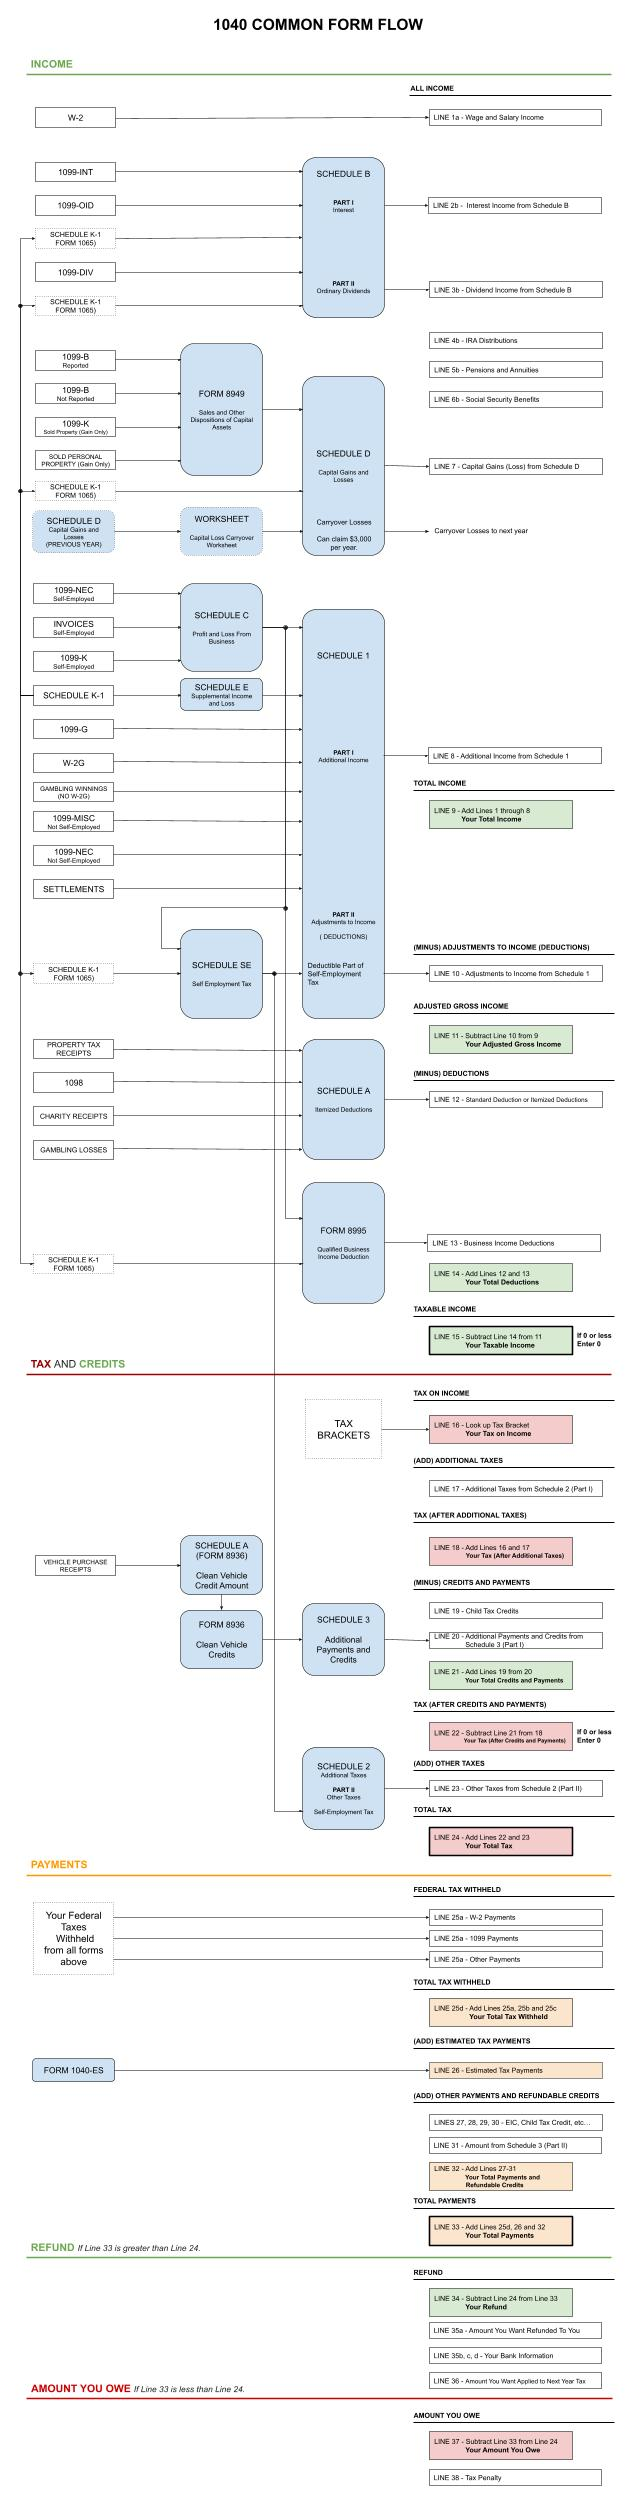
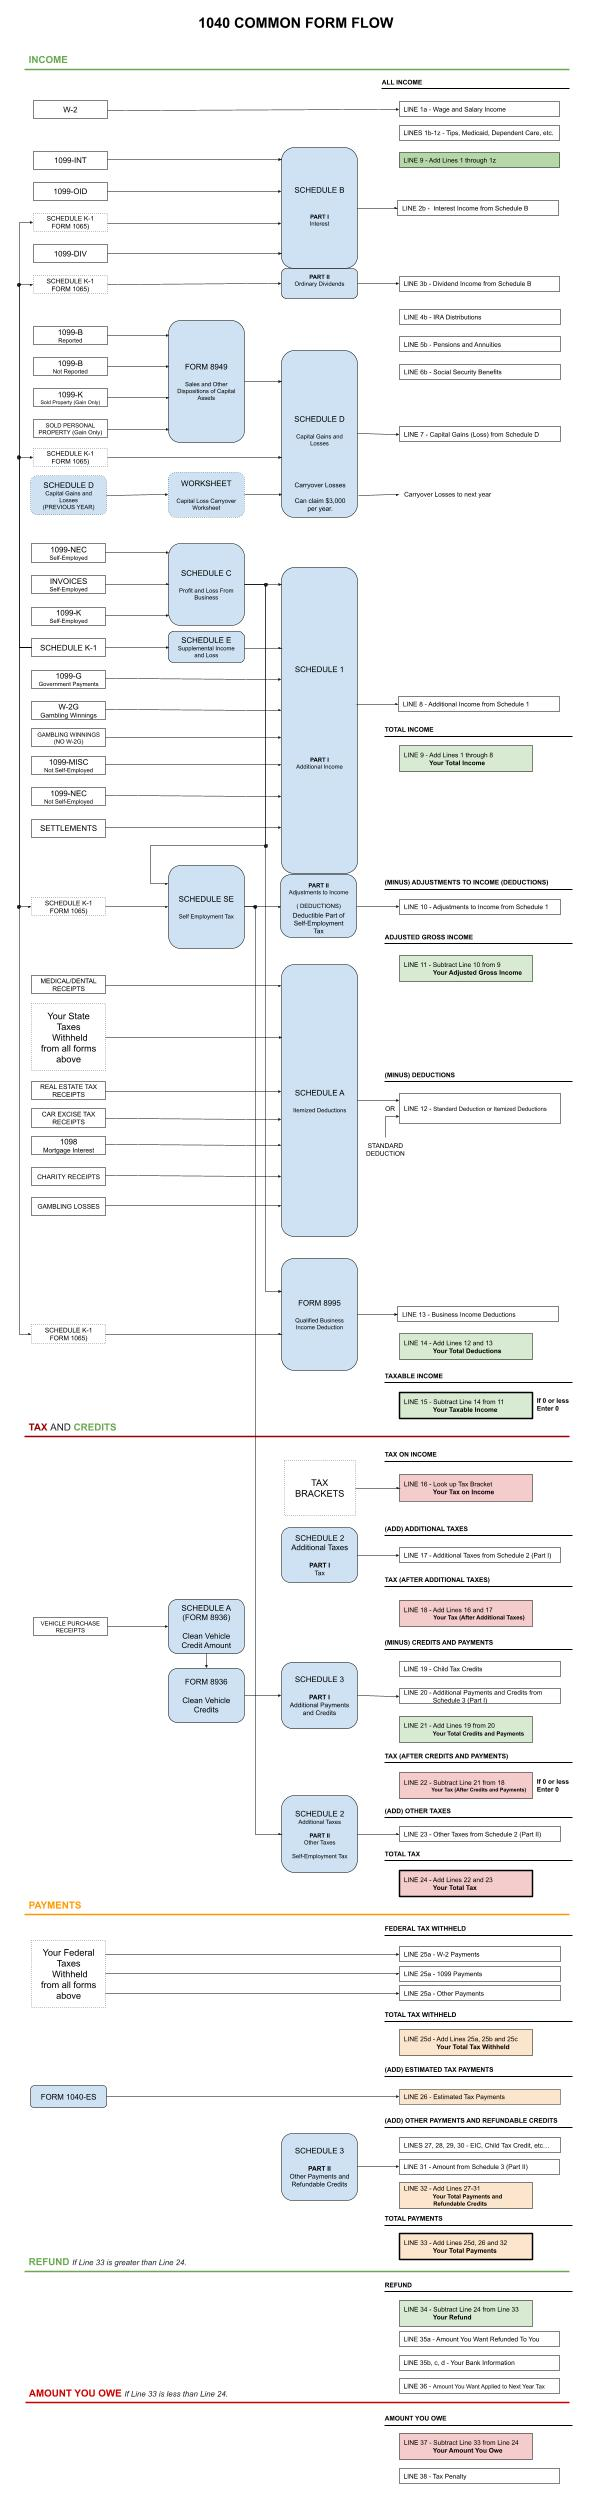
update taxes

diff --git a/other/random-things/taxes-cheat-sheet/README.md b/other/random-things/taxes-cheat-sheet/README.md
@@ -313,8 +313,86 @@ _U.S. Individual Income Tax Return._
 #### (MINUS) DEDUCTIONS
 
 * LINE 12 - Standard Deduction or Itemized Deductions from Schedule A
-  * PROPERTY TAXES
-    * **PROPERTY TAX RECEIPTS**
+  * MEDICAL/DENTAL COSTS
+    * **MEDICAL/DENTAL RECEIPTS**
+      ->
+      **[SCHEDULE A](https://github.com/JeffDeCola/my-cheat-sheets/tree/master/other/random-things/taxes-cheat-sheet#schedule-a---itemized-deductions) LINE 1**
+      ->
+      **LINE 17**
+  * STATE AND LOCAL TAXES
+    * **W-2 BOX 17**
+      ->
+      **[SCHEDULE A](https://github.com/JeffDeCola/my-cheat-sheets/tree/master/other/random-things/taxes-cheat-sheet#schedule-a---itemized-deductions) LINE 5a**
+      ->
+      **LINE 17**
+    * **1099-INT BOX 17**
+      ->
+      **[SCHEDULE A](https://github.com/JeffDeCola/my-cheat-sheets/tree/master/other/random-things/taxes-cheat-sheet#schedule-a---itemized-deductions) LINE 5a**
+      ->
+      **LINE 17**
+    * **1099-OID BOX 14**
+      ->
+      **[SCHEDULE A](https://github.com/JeffDeCola/my-cheat-sheets/tree/master/other/random-things/taxes-cheat-sheet#schedule-a---itemized-deductions) LINE 5a**
+      ->
+      **LINE 17**
+    * **1099-DIV BOX 16**
+      ->
+      **[SCHEDULE A](https://github.com/JeffDeCola/my-cheat-sheets/tree/master/other/random-things/taxes-cheat-sheet#schedule-a---itemized-deductions) LINE 5a**
+      ->
+      **LINE 17**
+    * **1099-B BOX 16** (Reported)
+      ->
+      **[SCHEDULE A](https://github.com/JeffDeCola/my-cheat-sheets/tree/master/other/random-things/taxes-cheat-sheet#schedule-a---itemized-deductions) LINE 5a**
+      ->
+      **LINE 17**
+    * **1099-B BOX 16** (Not Reported)
+      ->
+      **[SCHEDULE A](https://github.com/JeffDeCola/my-cheat-sheets/tree/master/other/random-things/taxes-cheat-sheet#schedule-a---itemized-deductions) LINE 5a**
+      ->
+      **LINE 17**
+    * **1099-K BOX 8** (Sold Property)
+      ->
+      **[SCHEDULE A](https://github.com/JeffDeCola/my-cheat-sheets/tree/master/other/random-things/taxes-cheat-sheet#schedule-a---itemized-deductions) LINE 5a**
+      ->
+      **LINE 17**
+    * **1099-NEC BOX 5** (Self-Employed)
+      ->
+      **[SCHEDULE A](https://github.com/JeffDeCola/my-cheat-sheets/tree/master/other/random-things/taxes-cheat-sheet#schedule-a---itemized-deductions) LINE 5a**
+      ->
+      **LINE 17**
+    * **1099-K BOX 8** (Self-Employed)
+      ->
+      **[SCHEDULE A](https://github.com/JeffDeCola/my-cheat-sheets/tree/master/other/random-things/taxes-cheat-sheet#schedule-a---itemized-deductions) LINE 5a**
+      ->
+      **LINE 17**
+    * **1099-G BOX 11**
+      ->
+      **[SCHEDULE A](https://github.com/JeffDeCola/my-cheat-sheets/tree/master/other/random-things/taxes-cheat-sheet#schedule-a---itemized-deductions) LINE 5a**
+      ->
+      **LINE 17**
+    * **W-2G BOX 15**
+      ->
+      **[SCHEDULE A](https://github.com/JeffDeCola/my-cheat-sheets/tree/master/other/random-things/taxes-cheat-sheet#schedule-a---itemized-deductions) LINE 5a**
+      ->
+      **LINE 17**
+    * **1099-MISC BOX 16** (Not Self-Employed)
+      ->
+      **[SCHEDULE A](https://github.com/JeffDeCola/my-cheat-sheets/tree/master/other/random-things/taxes-cheat-sheet#schedule-a---itemized-deductions) LINE 5a**
+      ->
+      **LINE 17**
+    * **1099-NEC BOX 5** (Not Self-Employed)
+      ->
+      **[SCHEDULE A](https://github.com/JeffDeCola/my-cheat-sheets/tree/master/other/random-things/taxes-cheat-sheet#schedule-a---itemized-deductions) LINE 5a**
+      ->
+      **LINE 17**
+  * REAL ESTATE TAXES
+    * **REAL ESTATE TAX RECEIPTS**
+      ->
+      **[SCHEDULE A](https://github.com/JeffDeCola/my-cheat-sheets/tree/master/other/random-things/taxes-cheat-sheet#schedule-a---itemized-deductions) LINE 5b**
+      ->
+      **LINE 17**
+  * CAR EXCISE TAX
+    * **CAR EXCISE TAX RECEIPTS**
       ->
       **[SCHEDULE A](https://github.com/JeffDeCola/my-cheat-sheets/tree/master/other/random-things/taxes-cheat-sheet#schedule-a---itemized-deductions) LINE 5c**
       ->
@@ -547,6 +625,14 @@ _In order used on form 1040._
     **BOX 2**
     ->
     **1040 LINE 25a**
+  * State Tax Withheld:
+    **BOX 17**
+    ->
+    **[SCHEUDLE A](https://github.com/JeffDeCola/my-cheat-sheets/tree/master/other/random-things/taxes-cheat-sheet#schedule-a---itemized-deductions) LINE 5a**
+    ->
+    **LINE 17**
+    ->
+    **1040 LINE 12**
 * **1099-INT** - Interest Income
   * Interest Income:
     **BOX 1**
@@ -560,6 +646,14 @@ _In order used on form 1040._
     **BOX 4**
     ->
     **1040 LINE 25b**
+  * State Tax Withheld:
+    **BOX 17**
+    ->
+    **[SCHEUDLE A](https://github.com/JeffDeCola/my-cheat-sheets/tree/master/other/random-things/taxes-cheat-sheet#schedule-a---itemized-deductions) LINE 5a**
+    ->
+    **LINE 17**
+    ->
+    **1040 LINE 12**
 * **1099-OID** - Original Issue Discount
   * Interest Income:
     **BOX 1**
@@ -573,6 +667,14 @@ _In order used on form 1040._
     **BOX 4**
     ->
     **1040 LINE 25b**
+  * State Tax Withheld:
+    **BOX 14**
+    ->
+    **[SCHEUDLE A](https://github.com/JeffDeCola/my-cheat-sheets/tree/master/other/random-things/taxes-cheat-sheet#schedule-a---itemized-deductions) LINE 5a**
+    ->
+    **LINE 17**
+    ->
+    **1040 LINE 12**
 * **1099-DIV** - Dividends and Distributions
   * Dividend Income:
     **BOX 1a**
@@ -586,6 +688,14 @@ _In order used on form 1040._
     **BOX 4**
     ->
     **1040 LINE 25b**
+  * State Tax Withheld:
+    **BOX 16**
+    ->
+    **[SCHEUDLE A](https://github.com/JeffDeCola/my-cheat-sheets/tree/master/other/random-things/taxes-cheat-sheet#schedule-a---itemized-deductions) LINE 5a**
+    ->
+    **LINE 17**
+    ->
+    **1040 LINE 12**
 * **1099-B** - Proceeds From Broker and Barter Exchange Transactions (Reported)
   * Short-Term Capitol Gains (Loss) (BOX A):
     **VARIOUS BOXES**
@@ -611,9 +721,18 @@ _In order used on form 1040._
     **LINE 16**
     ->
     **1040 LINE 7**
-  * **BOX 4**
+  * Federal Tax Withheld:
+    **BOX 4**
     ->
     **1040 LINE 25b**
+  * State Tax Withheld:
+    **BOX 16**
+    ->
+    **[SCHEUDLE A](https://github.com/JeffDeCola/my-cheat-sheets/tree/master/other/random-things/taxes-cheat-sheet#schedule-a---itemized-deductions) LINE 5a**
+    ->
+    **LINE 17**
+    ->
+    **1040 LINE 12**
 * **1099-B** - Proceeds From Broker and Barter Exchange Transactions (Not Reported)
   * Short-Term Capitol Gains (Loss) (BOX B):
     **VARIOUS BOXES**
@@ -639,9 +758,18 @@ _In order used on form 1040._
     **LINE 16**
     ->
     **1040 LINE 7**
-  * **BOX 4**
+  * Federal Tax Withheld:
+    **BOX 4**
     ->
     **1040 LINE 25b**
+  * State Tax Withheld:
+    **BOX 16**
+    ->
+    **[SCHEUDLE A](https://github.com/JeffDeCola/my-cheat-sheets/tree/master/other/random-things/taxes-cheat-sheet#schedule-a---itemized-deductions) LINE 5a**
+    ->
+    **LINE 17**
+    ->
+    **1040 LINE 12**
 * **1099-K** - Payment Card and Third Party Network Transactions (Not a 1099-B) (Sold Property (Gain only))
   * Short-Term Capitol Gains (Loss) (BOX C):
     **VARIOUS BOXES**
@@ -671,6 +799,14 @@ _In order used on form 1040._
     **BOX 4**
     ->
     **1040 LINE 25b**
+  * State Tax Withheld:
+    **BOX 8**
+    ->
+    **[SCHEUDLE A](https://github.com/JeffDeCola/my-cheat-sheets/tree/master/other/random-things/taxes-cheat-sheet#schedule-a---itemized-deductions) LINE 5a**
+    ->
+    **LINE 17**
+    ->
+    **1040 LINE 12**
 * **SOLD PERSONAL PROPERTY** - Bill of Sale (e.g. Sold a car at a profit) (Gain only) (Not a 1099-B)
   * Short-Term Capitol Gains (Loss) (BOX C):
     **TOTAL AMOUNT & INFO**
@@ -782,6 +918,14 @@ _In order used on form 1040._
     **BOX 4**
     ->
     **1040 LINE 25b**
+  * State Tax Withheld:
+    **BOX 5**
+    ->
+    **[SCHEUDLE A](https://github.com/JeffDeCola/my-cheat-sheets/tree/master/other/random-things/taxes-cheat-sheet#schedule-a---itemized-deductions) LINE 5a**
+    ->
+    **LINE 17**
+    ->
+    **1040 LINE 12**
 * **INVOICES** - From your Business (Self-Employed)
   * Additional Income (Business Income (Loss)):
     **TOTAL AMOUNT**
@@ -900,6 +1044,14 @@ _In order used on form 1040._
     **BOX 4**
     ->
     **1040 LINE 25b**
+  * State Tax Withheld:
+    **BOX 8**
+    ->
+    **[SCHEUDLE A](https://github.com/JeffDeCola/my-cheat-sheets/tree/master/other/random-things/taxes-cheat-sheet#schedule-a---itemized-deductions) LINE 5a**
+    ->
+    **LINE 17**
+    ->
+    **1040 LINE 12**
 * **SCHEDULE K-1 (FORM 1065)** - Partner's Share of Income, Deductions, Credits, etc.
   * Interest Income:
     **BOX 5**
@@ -994,6 +1146,14 @@ _In order used on form 1040._
     **BOX 4**
     ->
     **1040 LINE 25b**
+  * State Tax Withheld:
+    **BOX 11**
+    ->
+    **[SCHEUDLE A](https://github.com/JeffDeCola/my-cheat-sheets/tree/master/other/random-things/taxes-cheat-sheet#schedule-a---itemized-deductions) LINE 5a**
+    ->
+    **LINE 17**
+    ->
+    **1040 LINE 12**
 * **W-2G** - Certain Gambling Winnings
   * Additional Income (Gambling Winnings):
     **BOX 1**
@@ -1006,7 +1166,15 @@ _In order used on form 1040._
   * Federal Tax Withheld:
     **BOX 4**
     ->
-    **1040 LINE 25c**
+    **1040 LINE 25b**
+  * State Tax Withheld:
+    **BOX 15**
+    ->
+    **[SCHEUDLE A](https://github.com/JeffDeCola/my-cheat-sheets/tree/master/other/random-things/taxes-cheat-sheet#schedule-a---itemized-deductions) LINE 5a**
+    ->
+    **LINE 17**
+    ->
+    **1040 LINE 12**
 * **GAMBLING WINNINGS** (No W-2G)
   * Additional Income (Gambling Winnings):
     **TOTAL AMOUNT**
@@ -1026,9 +1194,17 @@ _In order used on form 1040._
     ->
     **1040 LINE 8**
   * Federal Tax Withheld:
-   **BOX 4**
+    **BOX 4**
     ->
     **1040 LINE 25b**
+  * State Tax Withheld:
+    **BOX 16**
+    ->
+    **[SCHEUDLE A](https://github.com/JeffDeCola/my-cheat-sheets/tree/master/other/random-things/taxes-cheat-sheet#schedule-a---itemized-deductions) LINE 5a**
+    ->
+    **LINE 17**
+    ->
+    **1040 LINE 12**
 * **1099-NEC** - Nonemployee Compensation (Not Self-Employed)
   * Additional Income (Nonemployee Compensation):
     **BOX 3**
@@ -1042,6 +1218,14 @@ _In order used on form 1040._
     **BOX 4**
     ->
     **1040 LINE 25b**
+  * State Tax Withheld:
+    **BOX 5**
+    ->
+    **[SCHEUDLE A](https://github.com/JeffDeCola/my-cheat-sheets/tree/master/other/random-things/taxes-cheat-sheet#schedule-a---itemized-deductions) LINE 5a**
+    ->
+    **LINE 17**
+    ->
+    **1040 LINE 12**
 * **SETTLEMENTS RECEIPTS**
   * Additional Income (Settlements):
     **TOTAL AMOUNT**
@@ -1051,7 +1235,25 @@ _In order used on form 1040._
     **LINE 10**
     ->
     **1040 LINE 8**
-* **PROPERTY TAX RECEIPTS**
+* **MEDICAL/DENTAL RECEIPTS**
+  * Itemized Deductions:
+    **TOTAL AMOUNT**
+    ->
+    **[SCHEDULE A](https://github.com/JeffDeCola/my-cheat-sheets/tree/master/other/random-things/taxes-cheat-sheet#schedule-a---itemized-deductions) LINE 1**
+    ->
+    **LINE 17**
+    ->
+    **1040 LINE 12**
+* **REAL ESTATE TAX RECEIPTS**
+  * Itemized Deductions:
+    **TOTAL AMOUNT**
+    ->
+    **[SCHEDULE A](https://github.com/JeffDeCola/my-cheat-sheets/tree/master/other/random-things/taxes-cheat-sheet#schedule-a---itemized-deductions) LINE 5b**
+    ->
+    **LINE 17**
+    ->
+    **1040 LINE 12**
+* **CAR EXCISE TAX RECEIPTS**
   * Itemized Deductions:
     **TOTAL AMOUNT**
     ->
@@ -1382,9 +1584,27 @@ _In order used on form 1040._
 ### SCHEDULE A - ITEMIZED DEDUCTIONS
 
 * MEDICAL AND DENTAL EXPENSES
+  * LINE 1 - Medical and Dental Expenses
+    * **MEDICAL/DENTAL RECEIPTS**
 * TAXES YOU PAID
-  * LINE 5c - State and Local Taxes
-    * **PROPERTY TAX RECEIPTS**
+  * LINE 5a - State and Local Income Taxes or General Sales Taxes
+    * **W-2 BOX 17**
+    * **1099-INT BOX 17**
+    * **1099-OID BOX 14**
+    * **1099-DIV BOX 16**
+    * **1099-B BOX 16** (Reported)
+    * **1099-B BOX 16** (Not Reported)
+    * **1099-K BOX 8** (Sold Property)
+    * **1099-NEC BOX 5** (Self-Employed)
+    * **1099-K BOX 8** (Self-Employed)
+    * **1099-G BOX 11**
+    * **W-2G BOX 15**
+    * **1099-MISC BOX 16** (Not Self-Employed)
+    * **1099-NEC BOX 5** (Not Self-Employed)
+  * LINE 5b - State and Local Real Estate Taxes
+    * **REAL ESTATE TAX RECEIPTS**
+  * LINE 5c - State and Local Personal Property Taxes
+    * **CAR EXCISE TAX RECEIPTS**
 * INTEREST YOU PAID
   * LINE 8a - Home Mortgage Interest
     * **1098 BOX 1**
